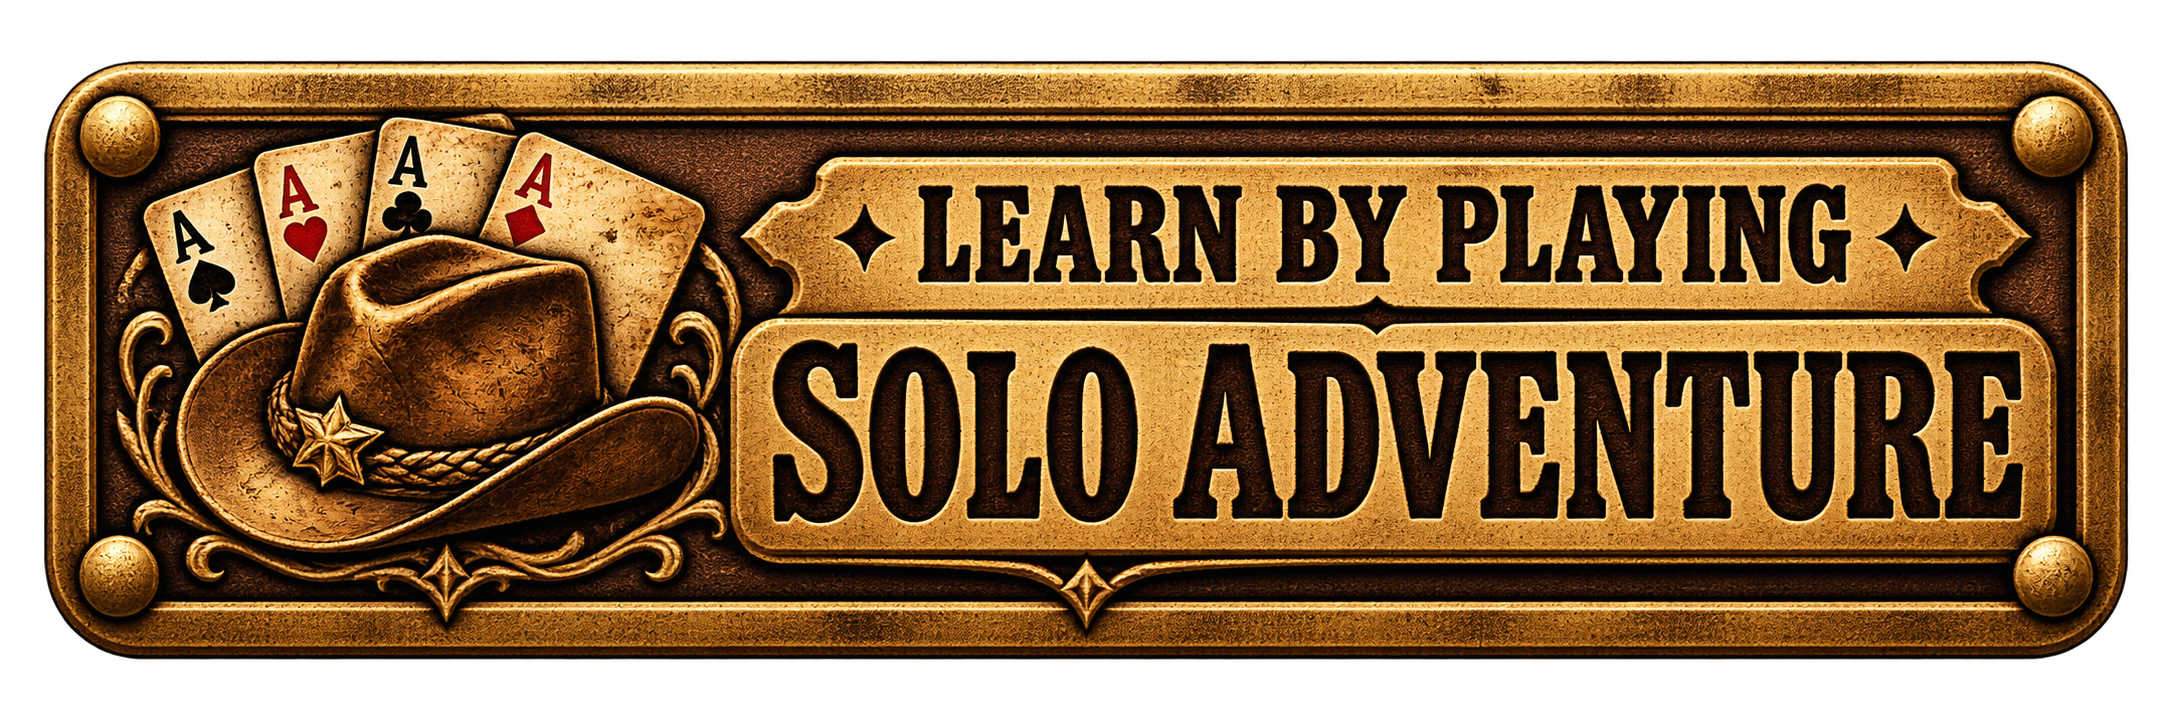
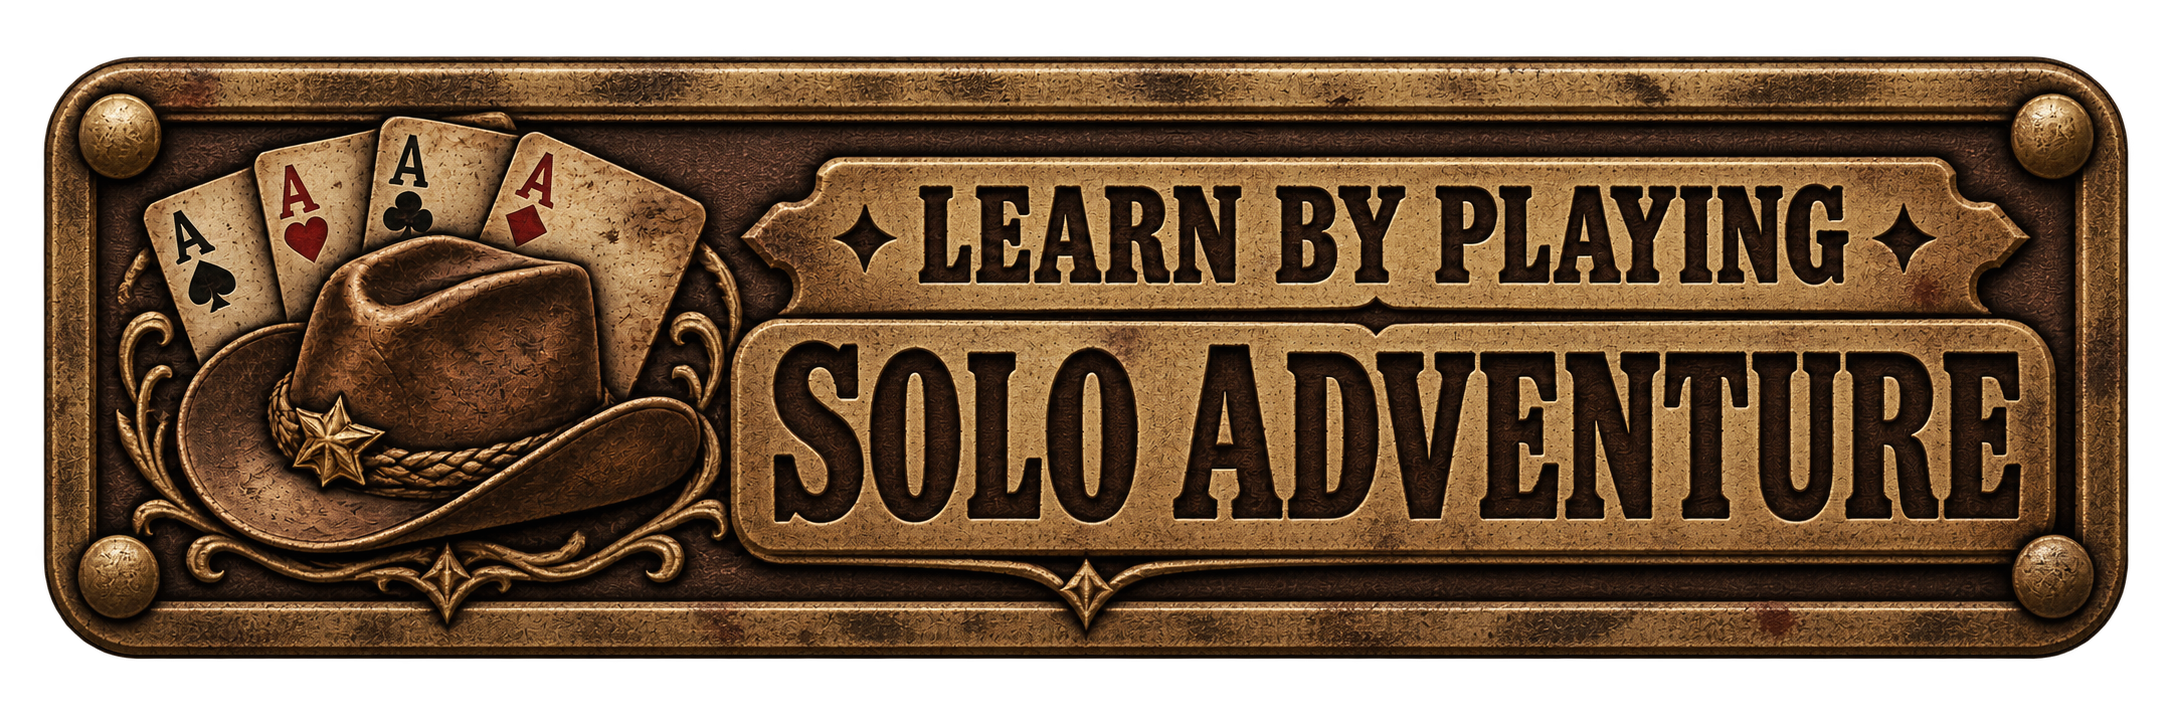
Mute solo button highlights with weathered matte brass artwork

diff --git a/frontend/src/views/HomeView.css b/frontend/src/views/HomeView.css
@@ -46,7 +46,7 @@
   height: auto;
 }
 
-.home-solo-button:hover { filter: brightness(1.08); }
+.home-solo-button:hover { opacity: .94; }
 .home-solo-button:focus-visible {
   outline: 3px solid var(--border-strong);
   outline-offset: 3px;

diff --git a/docs/solo-button-artwork.md b/docs/solo-button-artwork.md
@@ -6,6 +6,15 @@ Generated with the built-in image generation tool, using `new-game.png` and
 
 ## Final generation prompt
 
+The installed asset uses the matte revision below. Both passes used the built-in
+image generation tool. The original generation prompt follows for provenance.
+
+### Matte revision prompt
+
+Edit the first image, the rectangular Grim Fronteira solo adventure button. Keep its exact layout, proportions, rim, rivets, hat, cards, ornamentation, and exact text "LEARN BY PLAYING" / "SOLO ADVENTURE". Change only its surface finish and lighting: substantially reduce the shiny golden highlights, remove polished glare and glowing rim, lower yellow-orange saturation, use matte tarnished antique brass with dark brown patina and dusty worn leather. Soft diffuse lighting with subdued highlights, retaining clear readable black engraved lettering and rich material detail. Match the muted aged metal of the second image (New Game button). The result should look used and weathered rather than newly polished. Preserve transparency outside the rectangular plaque and opaque interior; no new elements or text.
+
+### Original generation prompt
+
 Use case: stylized-concept.
 Asset type: finished raster image button for Grim Fronteira home screen.
 Input images: both are style references only, existing New Game and Join Game buttons. Create their matching rectangular sibling, not a mockup.
